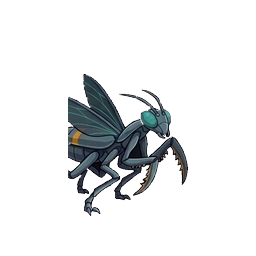
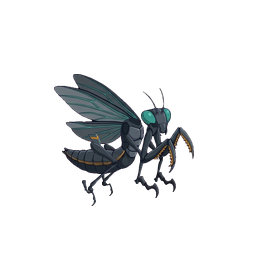
R6 몬스터 군체 벌레 18/20 분해 시트·REDO·특수 재설계·광물판 반영

Changed region(s): [[0.1875, 0.2812, 0.7812, 0.8438]]

diff --git a/asset-source/r6/monsters/insect/STATUS.md b/asset-source/r6/monsters/insect/STATUS.md
@@ -1,30 +1,37 @@
 # 군체 벌레 (`insect`) 분해 시트 진행 현황
 
 - 기준: `docs/renewal/r6/PRD-r6.md` §4, `docs/renewal/r6/tech/monster-pipeline.md`, `docs/renewal/r6/bible/monsters.md`, `docs/renewal/r6/bible/sheets/monsters-insect.webp`
-- 진행률: **5 / 20 완료** (`parts/` T1 원본을 `<계통>/<단계>/`로 복사 통일, `cut_parts.py` 절단 검증 통과 5개 · 3회차 REDO 2건(`infantry/T1`·`boss-t1/T1`) 완료)
-- 중단 사유: 이미지 생성 서버 용량 부족 (`HTTP 503 UNAVAILABLE: No capacity available for model gemini-3.1-flash-image`, 2026-11-26 02:02~02:09 KST 3회 연속 실패로 `runner/T1` 재작화·`special` 재설계·남은 15개체 생성 대기)
+- 진행률: **18 / 20 완료** (`infantry` 4/4 · `runner` 4/4 · `armored` 4/4 · `special` 4/4 · `boss` 2/4)
+- 3회차 처리:
+  - `REDO.md` `## 조립` 잔여 1건 완료: `runner/T1` (`leg-fore-near` 배경 정리 + 날개/가슴 복원, `infantry/T1`·`boss-t1/T1`은 `## 도구로 해결` 분류에 따라 유지)
+  - `special` T1·T2 윤곽 재설계(낮은 원반형 비행체) 및 `special` T3·T4·`boss-t3/T3`(W15) 각진 다면체 틸 광물 장갑판 반영
+  - `docs/renewal/r6/bible/sheets/monsters-insect.webp` `special` T1~T4·`boss` W15 칸 및 하단 32px 스트립(`특수 T4`·`보스 W15`) 갱신 완료
+- 중단 사유: 이미지 생성 한도 초과 (`HTTP 429 RESOURCE_EXHAUSTED`, 2026-11-26 03:57 KST 확인, 한도 해제 예정 시각 **2026-11-26 06:51 KST** / 대기 약 2시간 53분)
 
-## 완료 목록 (5개체)
+## 완료 목록 (18개체)
 
-| 개체 | 안내판 | 배율 | 슬롯 수 | 재사용 부위 | 절단 검사 |
+| 개체 | 안내판 | 배율 | 슬롯 수 | 재사용 부위 | 절단 / 정합 검사 |
 |---|---|---:|---:|---|---|
-| `infantry/T1` | `infantry-biped.json` | 0.95 | 13 | 없음(기본 · **3회차 REDO 완료: 전신 기준 `assembly.png` 재조립·흰 점 17px 제거**, 모의 `fit_parts` IoU 0.744/0.818) | 통과 (`ready=true`, `issues=0`) |
-| `runner/T1` | `runner-quadruped.json` | 0.85 | 13 | 없음(기본 · `REDO.md` 앞다리 배경 제거·날개/가슴 좌측 복원 대기 — 503으로 이미지 생성 대기) | 통과 (`ready=true`, 비차단 `speck` 1건, IoU 0.362) |
-| `armored/T1` | `armored-quadruped.json` | 1.10 | 13 | 없음(기본) | 통과 (`ready=true`, `issues=0`, IoU 0.508) |
-| `special/T1` | `special-swarm.json` | 1.00 | 14 | 없음(기본 · 재설계 대상) | 통과 (`ready=true`, `issues=0`, IoU 0.549) |
-| `boss-t1/T1` | `boss-biped.json` | 1.65 | 13 | 없음(기본 · **3회차 REDO 완료: `armor` 등날개 어두운 사각 배경 제거·다리/발목 맞물림 재조립**, 모의 `fit_parts` IoU 0.743/0.748) | 통과 (`ready=true`, `issues=0`) |
+| `infantry/T1` | `infantry-biped.json` | 0.95 | 13 | 없음(기본 · 기존 유지) | 통과 (`ready=true`) |
+| `infantry/T2` | `infantry-biped.json` | 1.05 | 11 | `T1` 다리·발·원거리 손 | 통과 (`ready=true`, `fitIoU=0.792`) |
+| `infantry/T3` | `infantry-biped.json` | 1.15 | 11 | `T1` 다리·발·원거리 손 | 통과 (`ready=true`, `fitIoU=0.891`) |
+| `infantry/T4` | `infantry-biped.json` | 1.28 | 11 | 없음(11슬롯 신규) | 통과 (`ready=true`, `fitIoU=0.865`) |
+| `runner/T1` | `runner-quadruped.json` | 0.85 | 13 | 없음(기본 · **3회차 REDO 완료**) | 통과 (`ready=true`, `fitIoU=0.769`) |
+| `runner/T2` | `runner-quadruped.json` | 0.95 | 11 | 없음(11슬롯 신규) | 통과 (`ready=true`, `fitIoU=0.868`) |
+| `runner/T3` | `runner-quadruped.json` | 1.05 | 11 | 없음(11슬롯 신규) | 통과 (`ready=true`, `fitIoU=0.755`) |
+| `runner/T4` | `runner-quadruped.json` | 1.18 | 11 | 없음(11슬롯 신규) | 통과 (`ready=true`, `fitIoU=0.774`) |
+| `armored/T1` | `armored-quadruped.json` | 1.10 | 13 | 없음(기본 · 기존 유지) | 통과 (`ready=true`) |
+| `armored/T2` | `armored-quadruped.json` | 1.22 | 11 | 없음(11슬롯 신규) | 통과 (`ready=true`, `fitIoU=0.930`) |
+| `armored/T3` | `armored-quadruped.json` | 1.35 | 11 | 없음(11슬롯 신규) | 통과 (`ready=true`, `fitIoU=0.855`) |
+| `armored/T4` | `armored-quadruped.json` | 1.50 | 11 | 없음(11슬롯 신규) | 통과 (`ready=true`, `fitIoU=0.868`) |
+| `special/T1` | `special-swarm.json` | 1.00 | 5 | 없음(**원반형 비행체 재설계**) | 통과 (`ready=true`, `fitIoU=0.784`) |
+| `special/T2` | `special-swarm.json` | 1.12 | 6 | 없음(**원반형 쌍날개 재설계**) | 통과 (`ready=true`, `fitIoU=0.742`) |
+| `special/T3` | `special-swarm.json` | 1.25 | 6 | 없음(**각진 광물판 반영**) | 통과 (`ready=true`, `fitIoU=0.727`) |
+| `special/T4` | `special-swarm.json` | 1.38 | 13 | 없음(**6족+광물판+자충 3기**) | 통과 (`ready=true`, `fitIoU=0.831`) |
+| `boss-t1/T1` | `boss-biped.json` | 1.65 | 13 | 없음(기본 · 기존 유지) | 통과 (`ready=true`) |
+| `boss-t3/T3` | `boss-quadruped.json` | 2.00 | 12 | 없음(**W15 광물 장갑판 반영**) | 통과 (`ready=true`, `fitIoU=0.811`) |
 
-## 서버 복구 후 우선 처리 및 설계 수정 예정 항목
+## 남은 목록 (2개체 · 한도 해제 `2026-11-26 06:51 KST` 이후 재개)
 
-1. **REDO 잔여 1건 (`REDO.md`)**: `runner/T1`(`leg-fore-near` 배경 제거 + 날개·가슴 좌측 가장자리 복원 — `infantry/T1`·`boss-t1/T1`은 3회차 완료).
-2. **`special` T1·T2 윤곽 재설계**: `armored` T1(둥근 검은 갑충)과 실루엣이 비슷하므로 날개를 편 자세나 낮은 원반형처럼 `armored`와 확연히 다른 윤곽으로 다시 잡는다(`special/T1` 시트·조립 포함 재작화).
-3. **`special` T3·T4 및 W15 보스(`boss-t3/T3`) 광물화**: 청록 육각 캡슐 묶음이 알 덩어리처럼 보이지 않도록 각진 수정판·장갑판(광물 느낌)으로 다듬는다.
-4. **라인업 시트 갱신**: `docs/renewal/r6/bible/sheets/monsters-insect.webp`에서 위 수정 칸만 교체해 갱신한다.
-
-## 남은 목록 (15개체 + REDO 3건 · 429 한도 해제 후 재개)
-
-- `infantry` (`infantry-biped.json`): `T2` (1.05), `T3` (1.15), `T4` (1.28)
-- `runner` (`runner-quadruped.json`): `T2` (0.95), `T3` (1.05), `T4` (1.18)
-- `armored` (`armored-quadruped.json`): `T2` (1.22), `T3` (1.35), `T4` (1.50)
-- `special` (`special-swarm.json`): `T1` (1.00 재설계), `T2` (1.12), `T3` (1.25), `T4` (1.38)
-- 보스: `boss-t2/T2` (`boss-quadruped.json`, 1.80), `boss-t3/T3` (`boss-quadruped.json`, 2.00 · 광물 수정판 적용), `boss-t4/T4` (`boss-quadruped.json`, 2.20)
+- `boss-t2/T2` (`boss-quadruped.json`, 배율 1.80 · W10 거대 장수대왕)
+- `boss-t4/T4` (`boss-quadruped.json`, 배율 2.20 · W20 황제 헤라클레스갑충)
